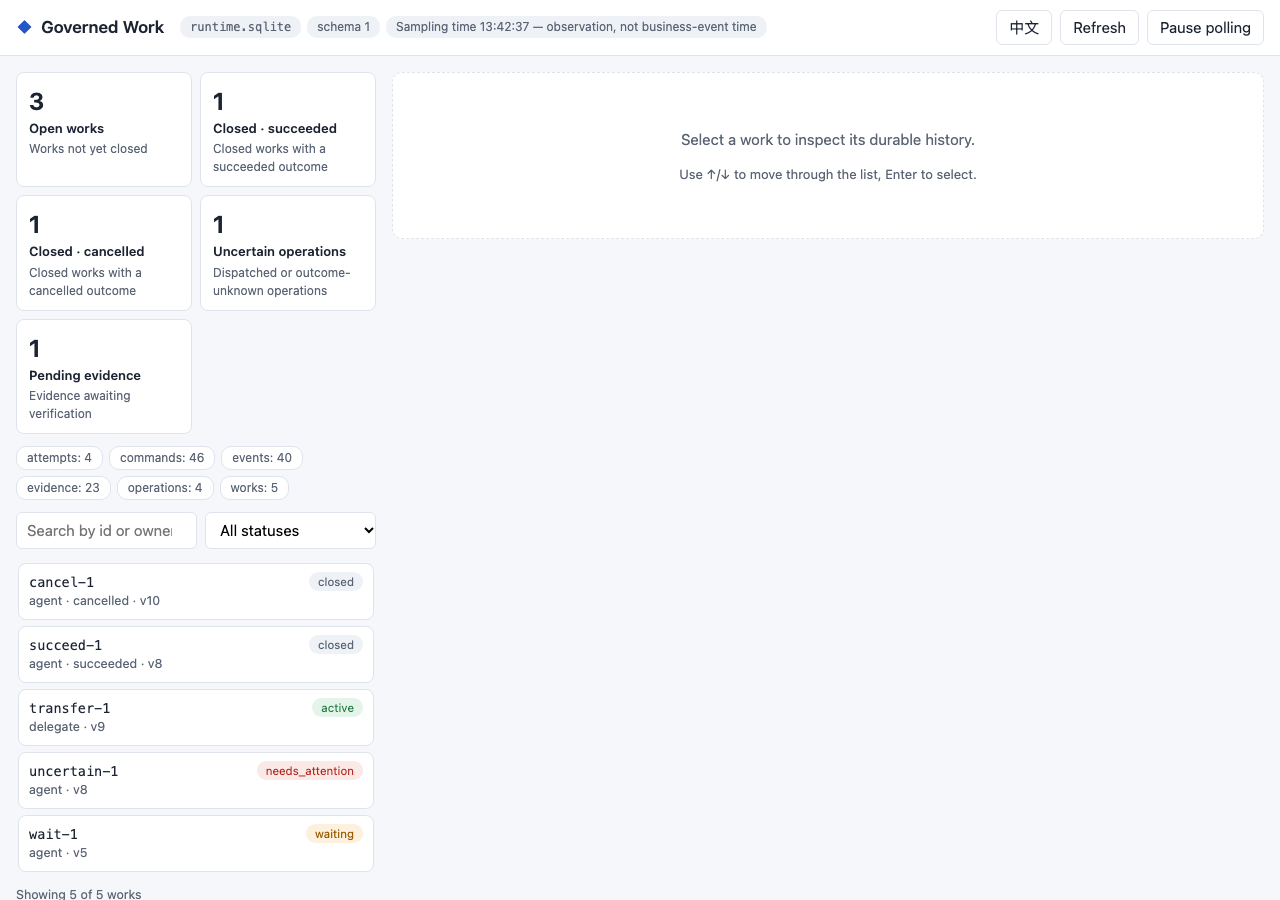
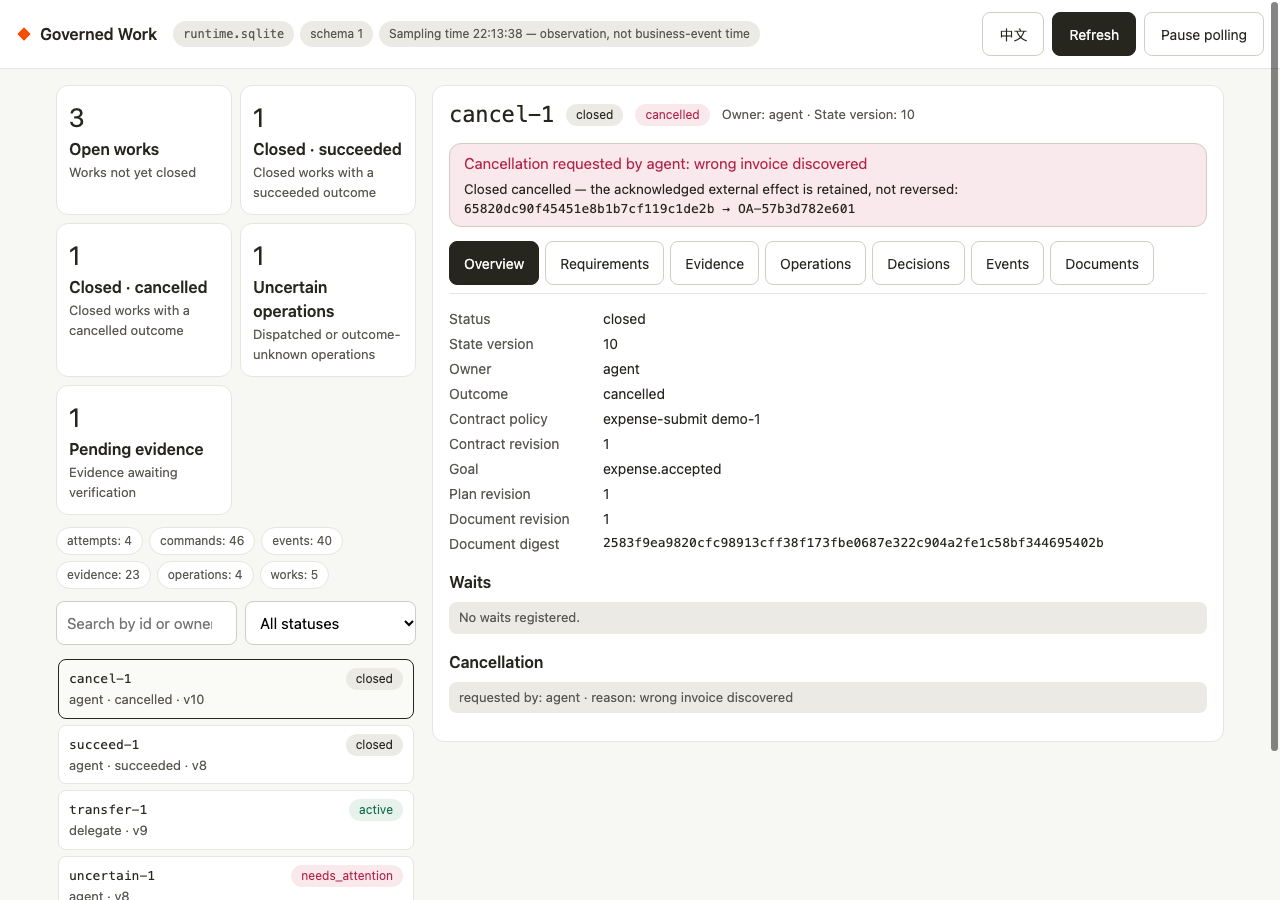
feat(website): refresh four GUI showcase images from accepted S7 GUI at 600c7aa
Real sanitized ui-demo captures (headless Chrome over CDP, 72/72
assertions): EN/ZH x 1280x900/390x844, desktop shots showing cancel-1's
acknowledged retained-effect record. Stdlib pixel verification proves
new tokens present, zero pre-S7 theme residue; docs/website.md gains
screenshot provenance and the prospective S7 DESIGN scope note.

diff --git a/docs/website.md b/docs/website.md
@@ -61,6 +61,43 @@ These are structural checks. They do **not** prove browser behavior,
 contrast, keyboard access or visual layout — those require actual browser
 verification, which stays part of acceptance.
 
+## Showcase screenshot provenance
+
+The four `assets/gui-{en,zh}-{desktop,390}.png` images are actual captures
+of the real operations viewer, not mockups. Current set:
+
+- **Rendered source:** the accepted S7 GUI — design-token restyle
+  `41bae0e`, carried through merge `c8138fe` — captured at source tree
+  `600c7aa` on 2026-10-14 with headless Chrome over CDP (capture artifact:
+  [`.agents/notes/2026-10-14-S7-task2-website-capture.py`](../.agents/notes/2026-10-14-S7-task2-website-capture.py),
+  72/72 assertions; local pixel verification:
+  [`.agents/notes/2026-10-14-S7-task2-png-verify.py`](../.agents/notes/2026-10-14-S7-task2-png-verify.py)).
+- **Sample data:** a fresh store seeded by `python3 -m work_runtime
+  ui-demo` — the five-work sample (waiting, needs-attention, transferred,
+  succeeded, cancelled) built by real runtime commands, never fabricated
+  rows. The desktop shots select `cancel-1` so the detail pane shows a
+  real record, including the banner that acknowledges the confirmed
+  external effect is retained, not reversed.
+- **Viewports:** 1280×900 and 390×844 at deviceScaleFactor 1, matching the
+  `width`/`height` attributes on the page's `img` elements; language is
+  set through the viewer's own toggle (headless Chrome follows the OS
+  locale on first load).
+- **Transient content:** the sampling-time chip shows the capture
+  moment's clock (the live viewer refreshes it) and the store chip shows
+  only the demo database's basename (`runtime.sqlite`); no user-specific
+  paths, timestamps beyond that chip, or private data appear. At the
+  top-of-page framing, the accepted design's denser metric tiles mean the
+  1280×900 viewport shows the first three to four of the five works and
+  the 390×844 viewport shows the wrapped topbar/controls, tiles, filters
+  and the start of the list — the full list is one scroll away in the
+  real viewer.
+
+[DESIGN.md](../DESIGN.md) governs the GUI's visual contract from S7
+onward, and these screenshots are the first set captured under it. The
+S5-era GUI (and the screenshot set S6 shipped with) predates that
+specification; nothing on this site claims retroactive S5/DESIGN
+compliance for it.
+
 ## Publishing
 
 The website is published by [`.github/workflows/pages.yml`](../.github/workflows/pages.yml),
